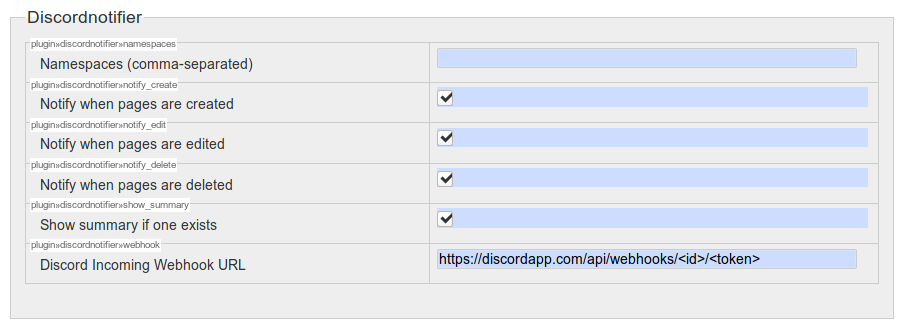
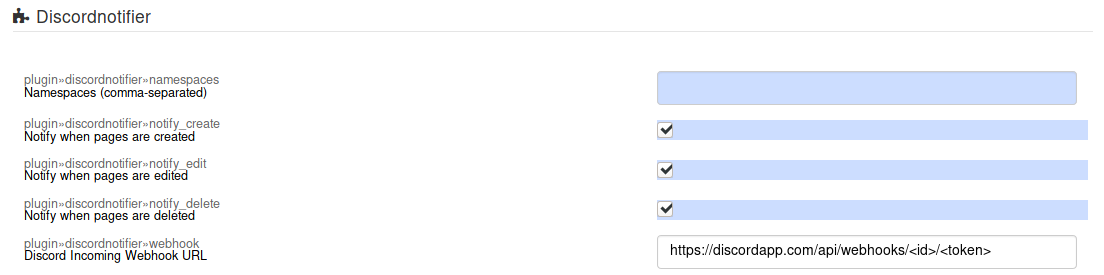
Update config screenshot

diff --git a/README.md b/README.md
@@ -14,6 +14,8 @@ Download the latest [Release](https://github.com/zteeed/dokuwiki-discord-notifie
 
 1. Create an Incoming Webhook on discord
 
+![Example Dokuwiki config](https://github.com/zteeed/dokuwiki-discord-notifier/raw/master/images/config_discord.png)
+
 2. Enter the webhook into the discordnotifier configuration section in DokuWiki's Configuration Settings
 
 ![Example Dokuwiki config](https://github.com/zteeed/dokuwiki-discord-notifier/raw/master/images/config.png)
